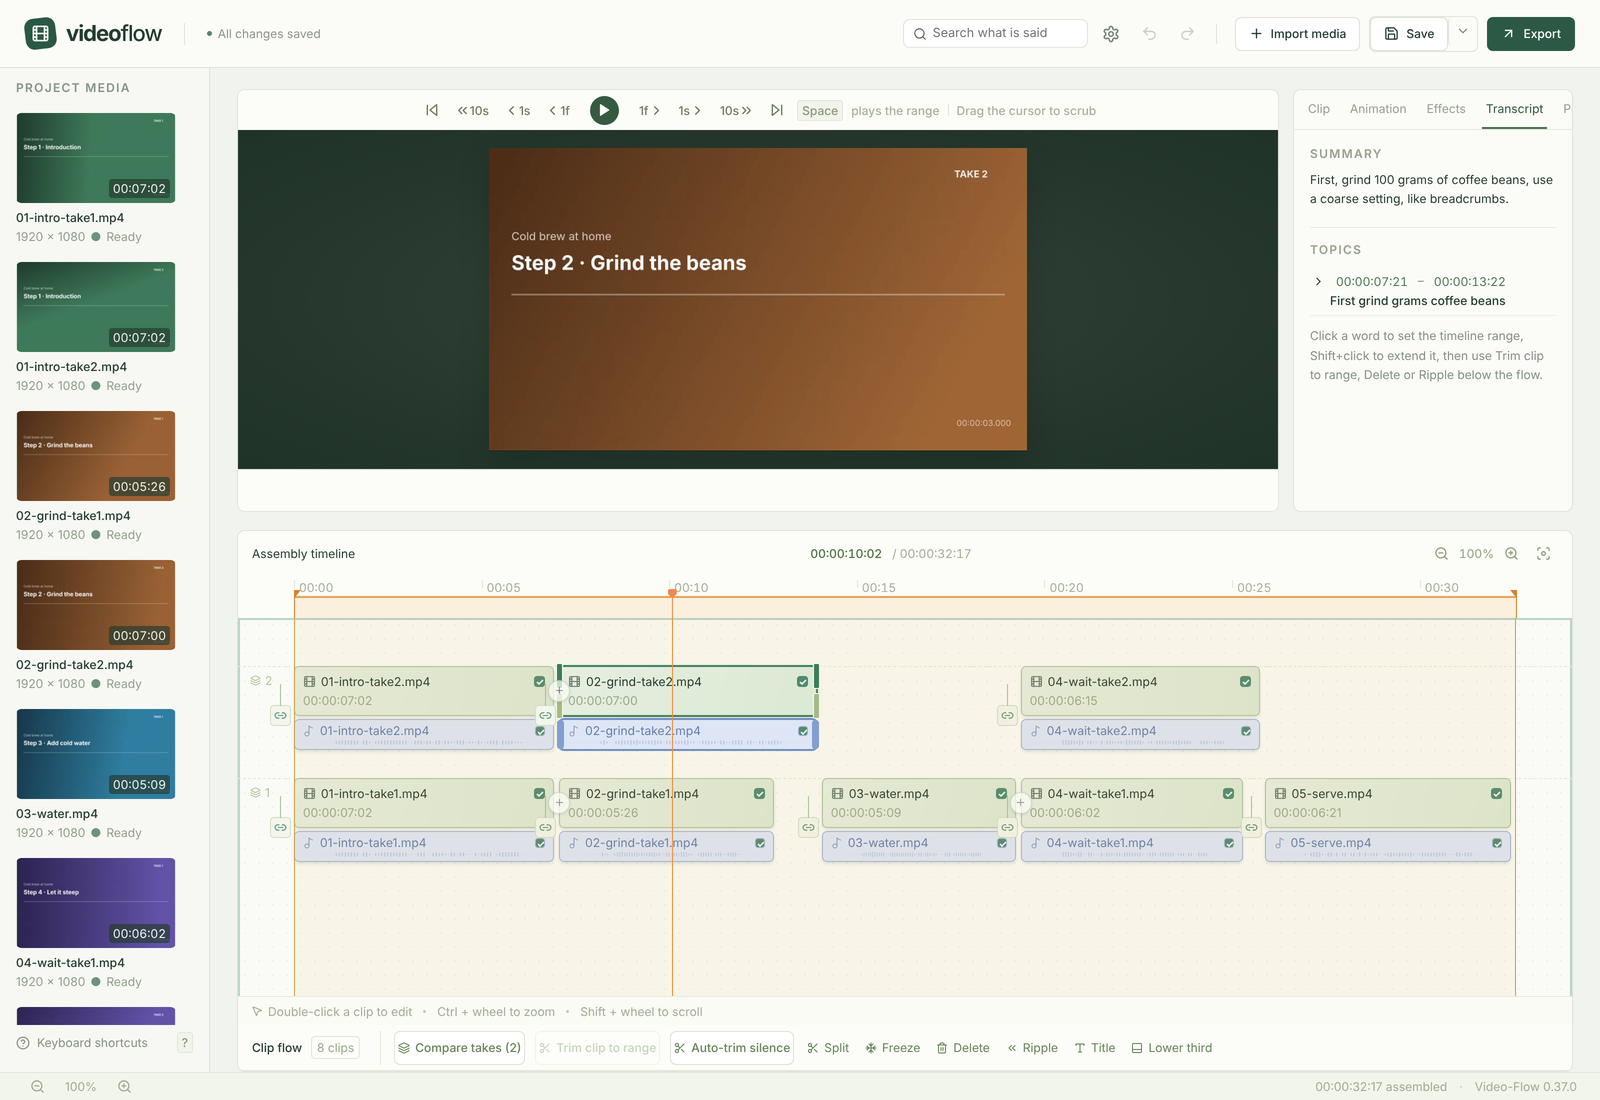
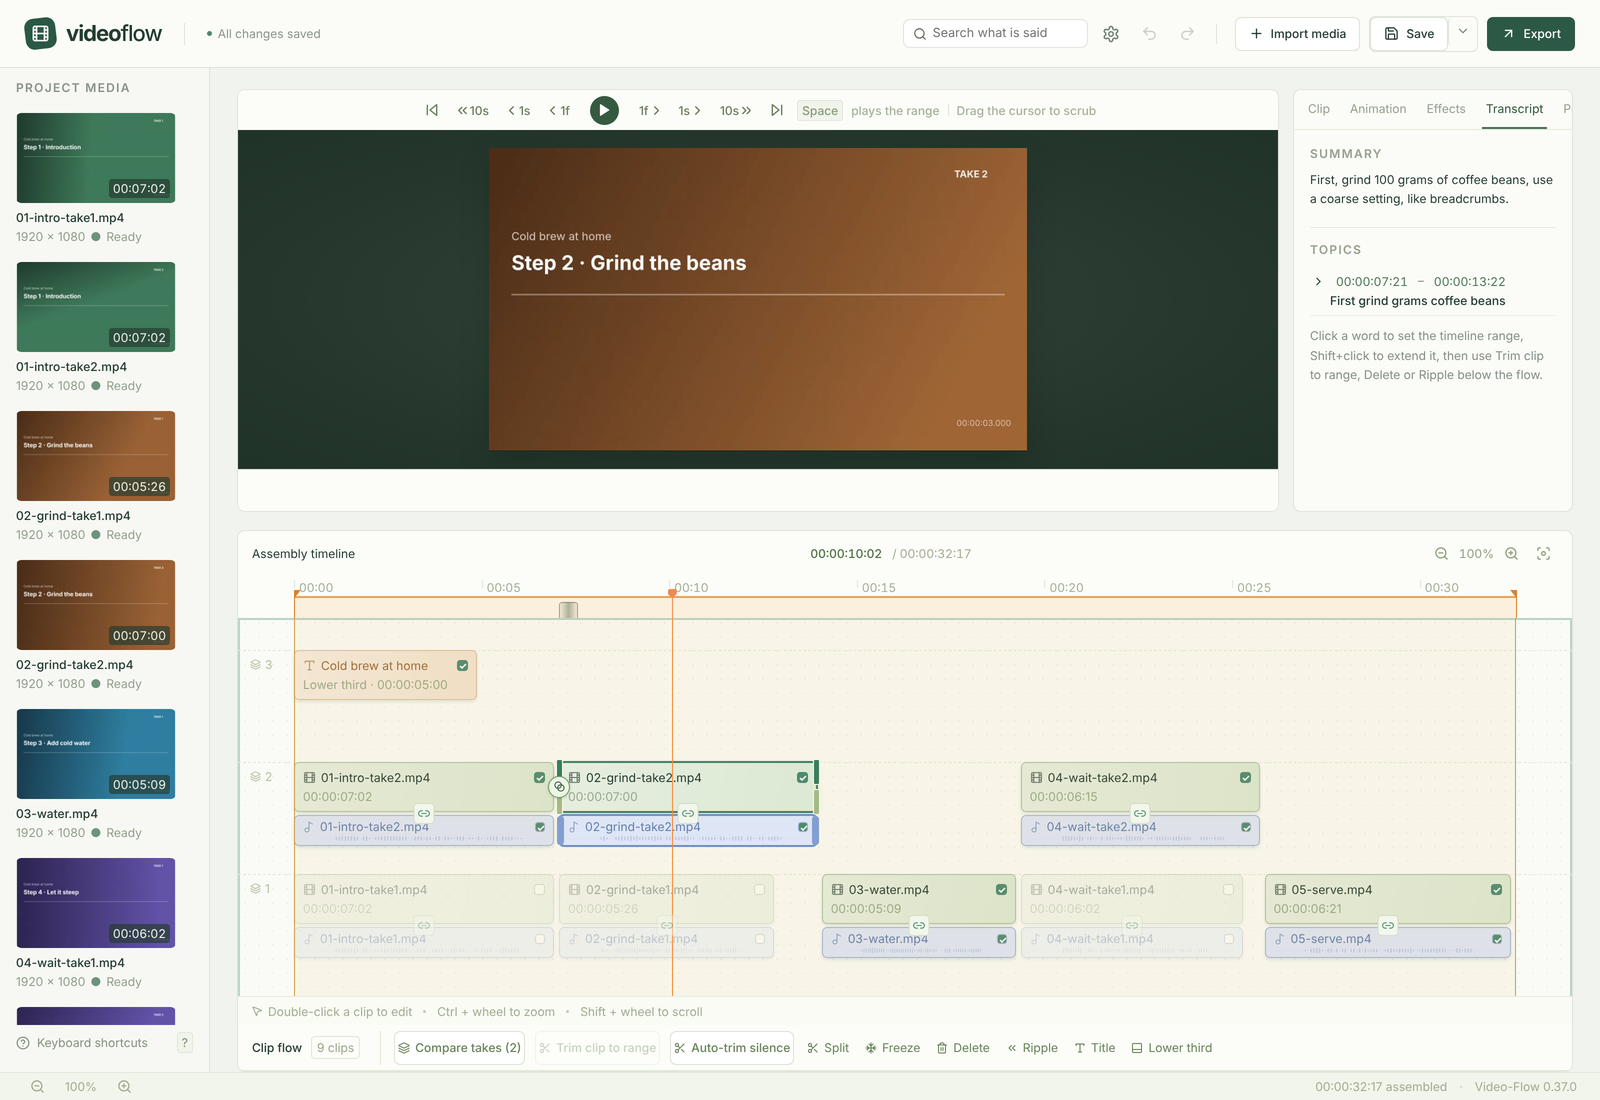
DOC: Retake README screenshots with the centred link button

Changed region(s): [[0.1562, 0.5873, 0.9688, 0.8964]]

diff --git a/README.md b/README.md
@@ -4,7 +4,7 @@ A desktop video editor for footage recorded with many retakes: tutorials, talks,
 
 Windows 11 x64 and Linux x64. The editor, the analysis, the MP4 render and the exports work end to end; tuning on real rushes and hardware qualification are in progress ([roadmap](docs/roadmap.md)). Everything runs locally: no account, no upload, your original files are never copied or modified.
 
-![The editor: project media, preview, transcript of the selected clip, and the clip flow with two retakes stacked over the first takes](docs/images/overview.png)
+![The editor: project media, preview, transcript of the selected clip, and the clip flow with the retakes stacked over the first takes (the picked takes are enabled)](docs/images/overview.png)
 
 ## The idea
 
